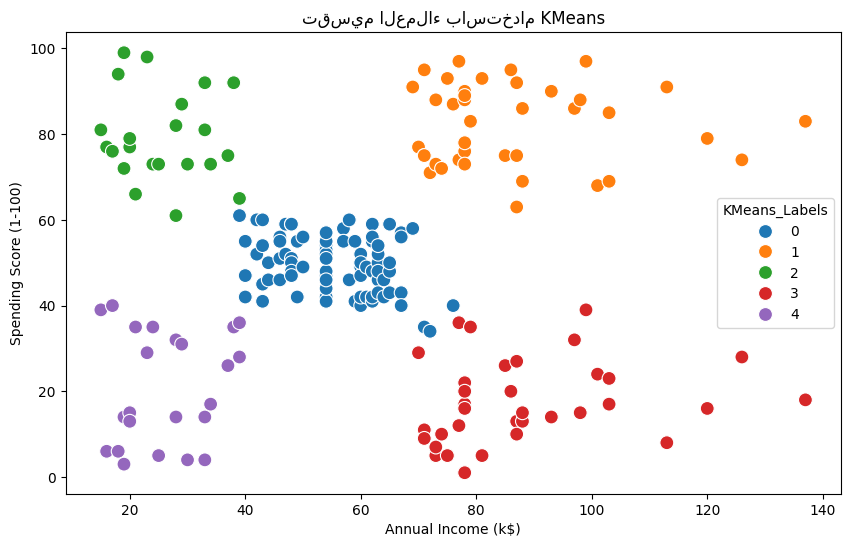
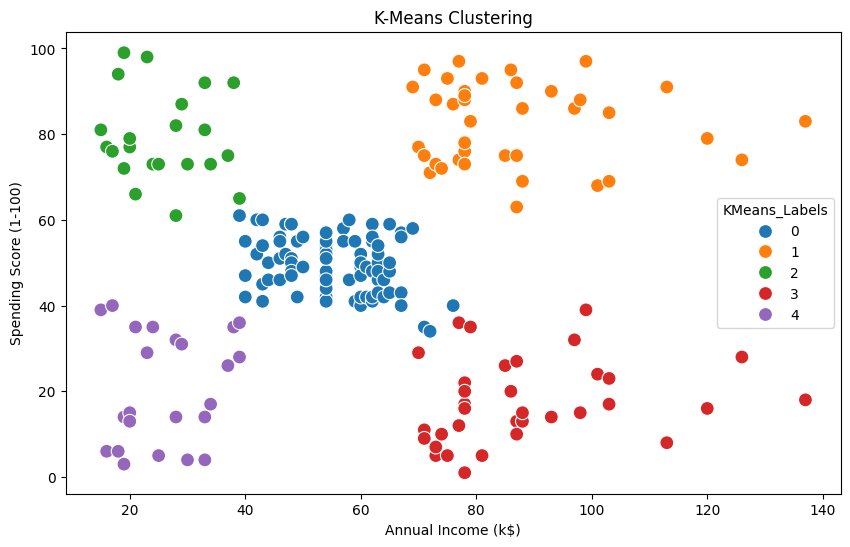
Upload notebook

diff --git a/src/data/load_data.py b/src/data/load_data.py
@@ -8,6 +8,7 @@ https://www.kaggle.com/datasets/abdallahwagih/mall-customers-segmentation
 import os
 
 import pandas as pd
+from sklearn.preprocessing import StandardScaler
 
 from src.utils.config import RAW_DATA_PATH
 
@@ -33,3 +34,27 @@ def load_data(path: str = RAW_DATA_PATH) -> pd.DataFrame:
             "وحط ملف 'Mall_Customers.csv' جوه فولدر data/raw/"
         )
     return pd.read_csv(path)
+
+def preprocess(df: pd.DataFrame) -> pd.DataFrame:
+    """
+    تنضيف بسيط للبيانات: إزالة التكرارات والقيم الناقصة.
+    """
+    df = df.drop_duplicates()
+    df = df.dropna()
+    return df
+
+
+def scale_features(df: pd.DataFrame, features: list):
+    """
+    تحجيم (Scaling) الأعمدة المحددة باستخدام StandardScaler.
+
+    Args:
+        df (pd.DataFrame): البيانات.
+        features (list): أسماء الأعمدة المطلوب تحجيمها.
+
+    Returns:
+        tuple[np.ndarray, StandardScaler]: مصفوفة الأعمدة بعد التحجيم، وكائن الـ scaler.
+    """
+    scaler = StandardScaler()
+    X_scaled = scaler.fit_transform(df[features])
+    return X_scaled, scaler

diff --git a/src/utils/config.py b/src/utils/config.py
@@ -16,3 +16,18 @@ CLUSTERING_FEATURES = ["Annual Income (k$)", "Spending Score (1-100)"]
 
 RANDOM_STATE = 42
 N_CLUSTERS = 5
+
+def load_config() -> dict:
+    """
+    ترجع كل الإعدادات في شكل dictionary عشان تستخدم بسهولة في النوتبوك.
+    """
+    return {
+        "data": {
+            "raw_path": RAW_DATA_PATH,
+        },
+        "models_dir": MODELS_DIR,
+        "figures_dir": FIGURES_DIR,
+        "clustering_features": CLUSTERING_FEATURES,
+        "random_state": RANDOM_STATE,
+        "n_clusters": N_CLUSTERS,
+    }